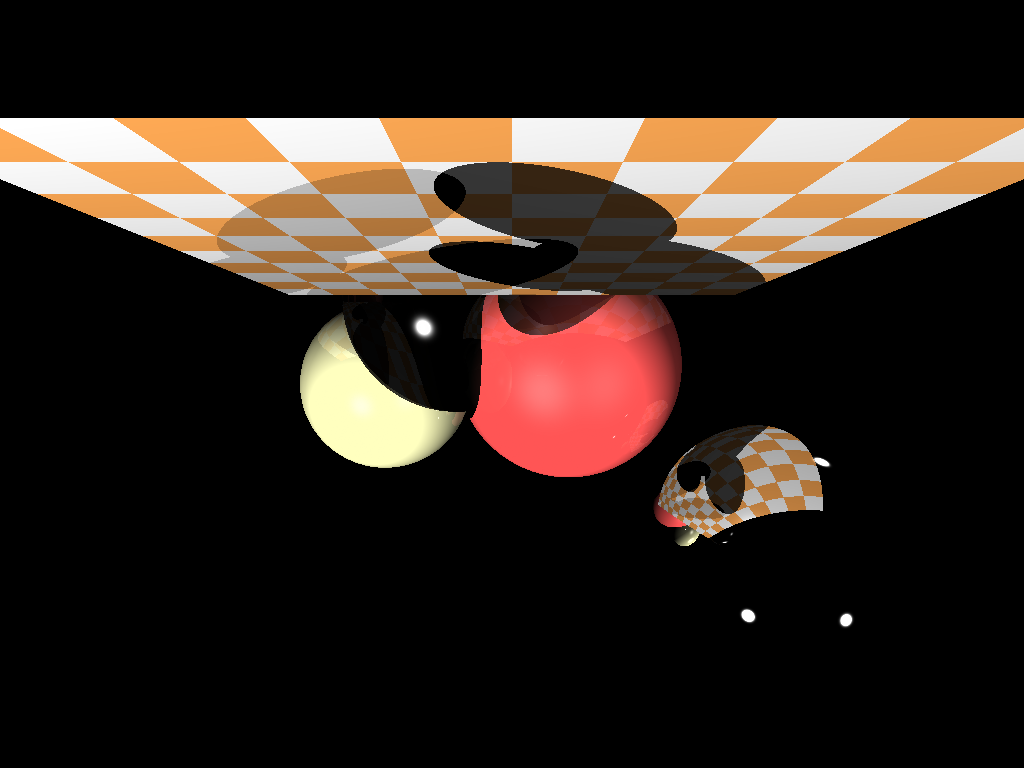
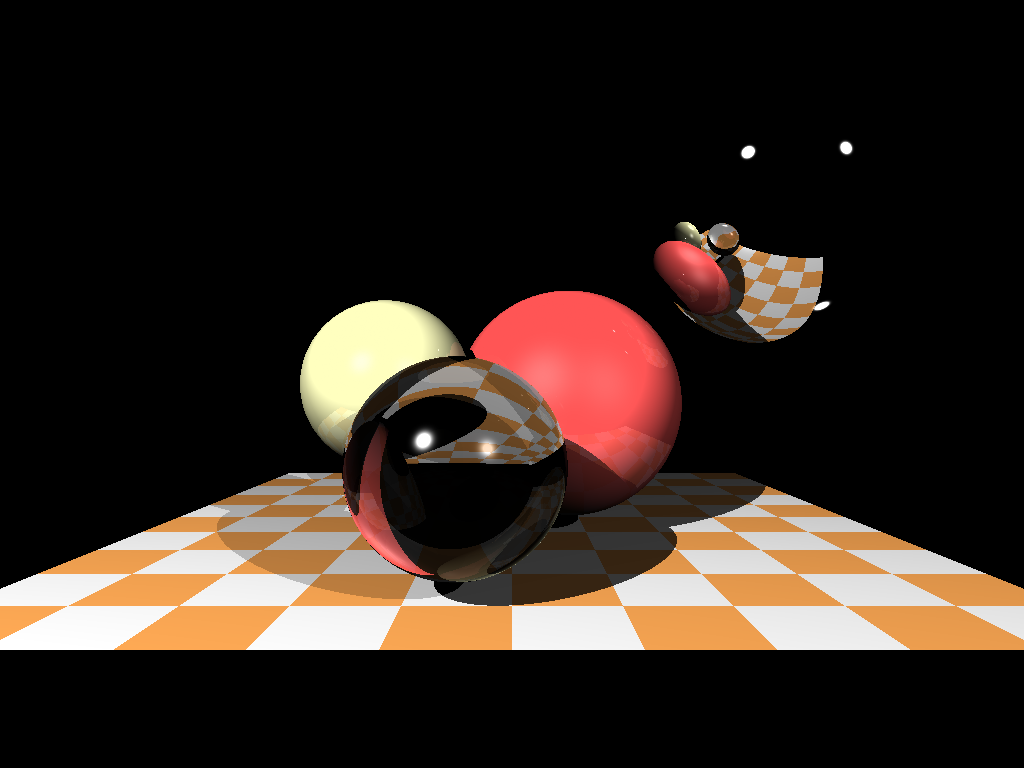
fix math issues

diff --git a/README.md b/README.md
@@ -6,8 +6,6 @@ Re-implements https://github.com/cishiv/tiny-raytracer
 
 ![test.png](./test.png)
 
-Looks a little whacky!
-
 ### Credits
 
 - stb headers from http://nothings.org/stb/
